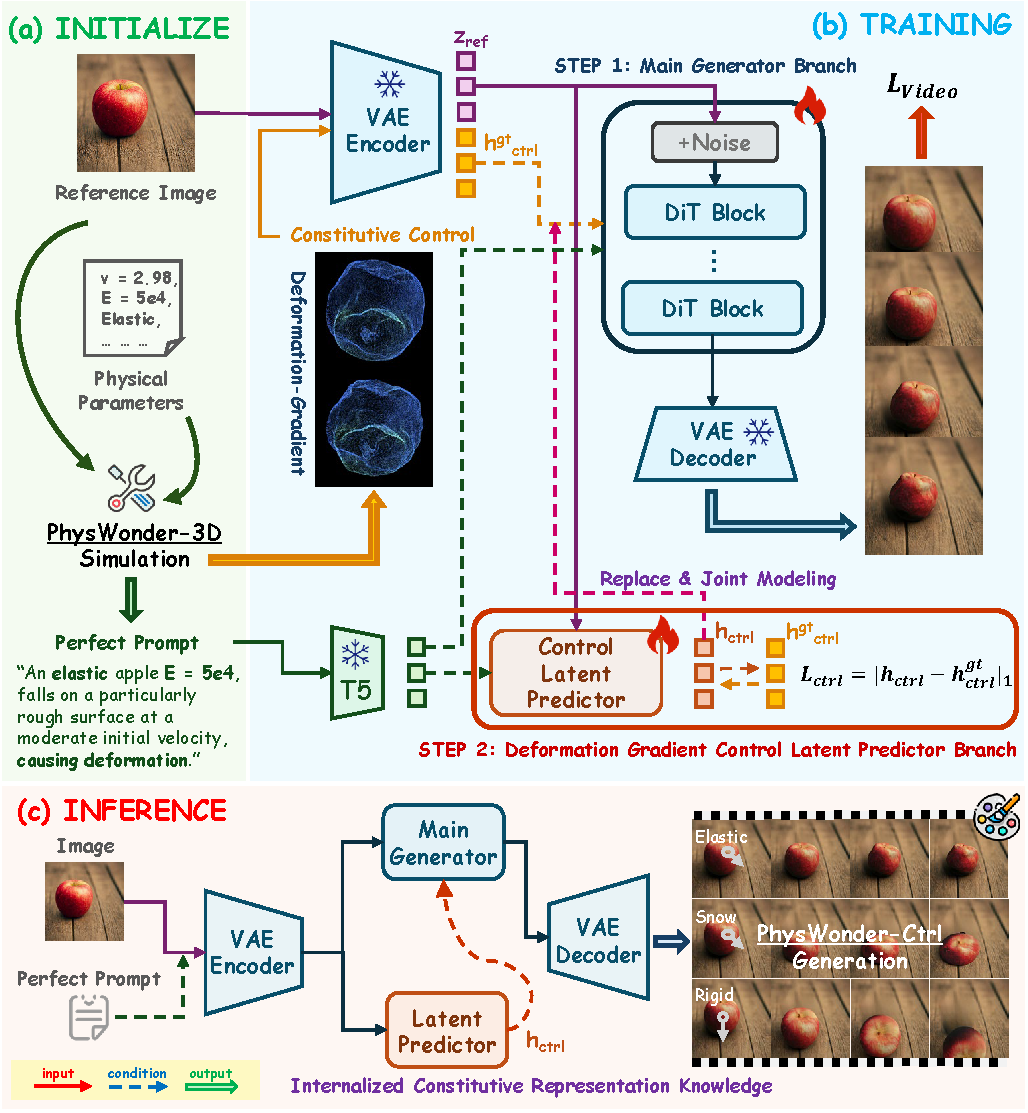
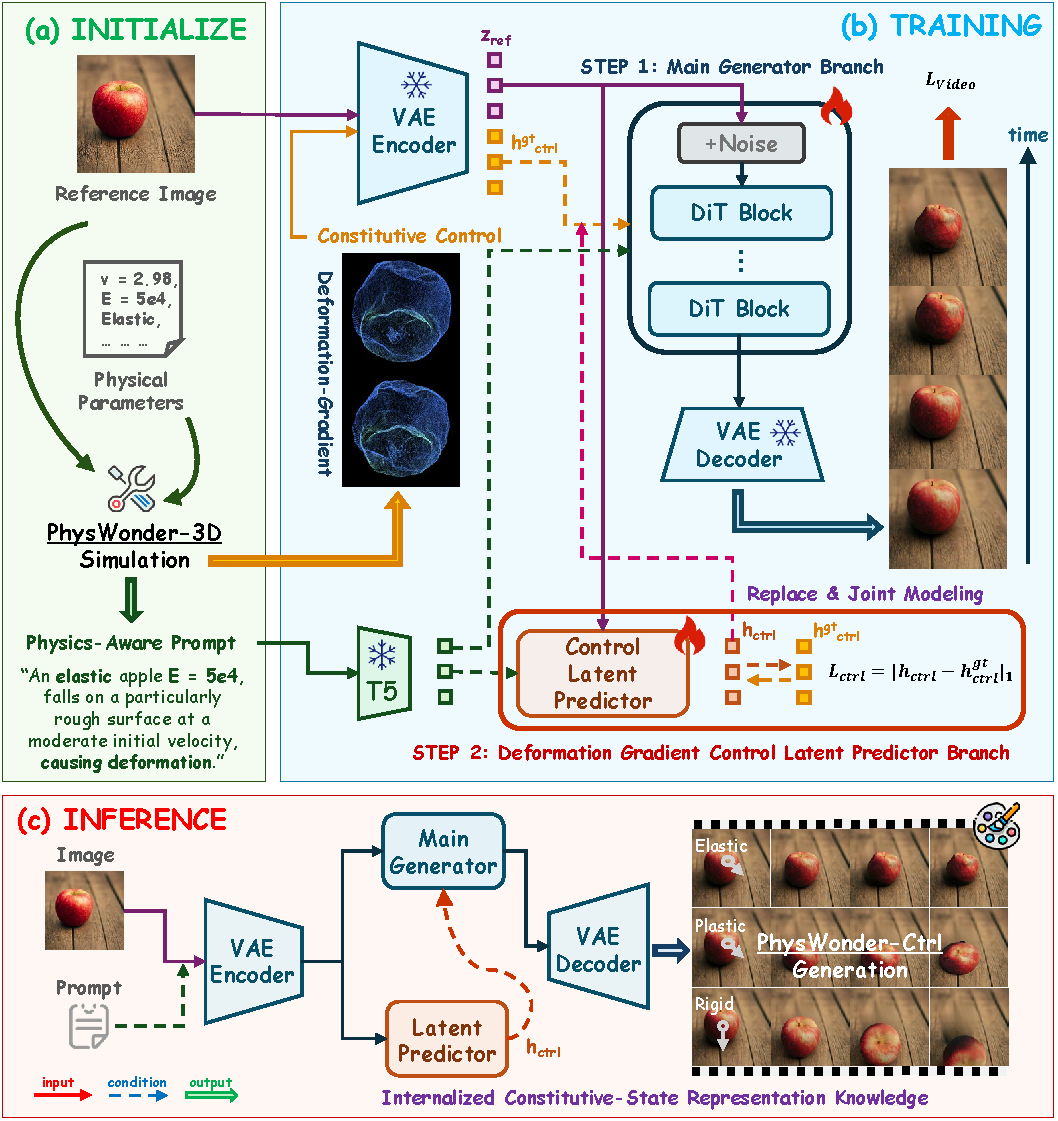
Final Version Before DDL 5.12 12pm AOE

diff --git a/index.html b/index.html
@@ -208,9 +208,9 @@
       outline:none;
       box-shadow:0 0 0 4px rgba(10,132,255,.16), 0 18px 34px rgba(15,23,42,.18);
     }
-    .teaser-hotspot[data-object="mug"]{left:39%;top:38%;--label-x:-254px;--label-y:-50%;--hotspot-accent:#0a84ff;--ring:rgba(10,132,255,.34)}
-    .teaser-hotspot[data-object="bear"]{left:63%;top:71%;--label-x:34px;--label-y:-50%;--hotspot-accent:#ff3b30;--ring:rgba(255,59,48,.30)}
-    .teaser-hotspot[data-object="duck"]{left:35%;top:72%;--label-x:-170px;--label-y:-50%;--hotspot-accent:#20a464;--ring:rgba(32,164,100,.30)}
+    .teaser-hotspot[data-object="mug"]{left:40%;top:58%;--label-x:-254px;--label-y:-50%;--hotspot-accent:#0a84ff;--ring:rgba(10,132,255,.34)}
+    .teaser-hotspot[data-object="bear"]{left:58%;top:44%;--label-x:34px;--label-y:-50%;--hotspot-accent:#ff3b30;--ring:rgba(255,59,48,.30)}
+    .teaser-hotspot[data-object="duck"]{left:63%;top:72%;--label-x:34px;--label-y:-50%;--hotspot-accent:#20a464;--ring:rgba(32,164,100,.30)}
     .teaser-hotspot[data-object="snowman"]{left:65%;top:36%;--label-x:34px;--label-y:-50%}
     .teaser-hotspot-label{
       position:absolute;
@@ -1510,6 +1510,21 @@
       overflow:hidden;
       box-shadow:0 18px 34px rgba(15,23,42,.08);
     }
+    .perception-card--multiview .perception-image-frame{
+      aspect-ratio:16 / 9;
+      display:flex;
+      align-items:center;
+      justify-content:center;
+      overflow:hidden;
+      background:#fff;
+    }
+    .perception-card--multiview .perception-image-frame img{
+      width:auto;
+      height:100%;
+      max-width:none;
+      transform:rotate(90deg);
+      transform-origin:center;
+    }
     .perception-card .card-body{
       padding:16px 18px 18px;
     }
@@ -1657,9 +1672,9 @@
       .teaser-hotspot-label span{
         font-size:10px;
       }
-      .teaser-hotspot[data-object="mug"]{left:38%;top:38%;--label-x:-218px;--label-y:-50%}
-      .teaser-hotspot[data-object="bear"]{left:63%;top:71%;--label-x:25px}
-      .teaser-hotspot[data-object="duck"]{left:35%;top:72%;--label-x:-132px}
+      .teaser-hotspot[data-object="mug"]{left:40%;top:58%;--label-x:25px;--label-y:-50%}
+      .teaser-hotspot[data-object="bear"]{left:58%;top:44%;--label-x:25px}
+      .teaser-hotspot[data-object="duck"]{left:63%;top:72%;--label-x:25px}
       .teaser-hotspot[data-object="snowman"]{left:64%;top:36%;--label-x:25px}
     }
     @media (max-width: 520px){
@@ -1718,13 +1733,15 @@
             <div class="eyebrow">Abstract</div>
             <!-- <h3>Abstract</h3> -->
             <p><small>
-              The physical world is governed by material-dependent constitutive behaviors, yet current video generation models still struggle to produce physically plausible and controllable dynamics across diverse materials.
-              Existing approaches either rely on external simulators to provide coarse physical motion or use simplified control signals such as trajectories and sparse forces; as a result, they often control visible motion without modeling how materials respond to interactions.
-              Our key insight is that constitutive representations can bridge this gap by describing the material response that links external interactions to deformation and motion.
-              We present <strong>PhysWonder</strong>, a unified framework for physically controllable video generation built around simulation-coupled constitutive representations.
-              Our framework consists of <strong>PhysWonder-3D</strong>, which enables unified constitutive simulation and scalable physically grounded data synthesis through a decomposition-based hybrid Material Point Method, and <strong>PhysWonder-Ctrl</strong>, which uses a dual-branch video generation architecture to internalize deformation-gradient-based constitutive control.
-              By treating deformation gradients as simulation-coupled intermediate supervision, joint training improves deformation-gradient-guided generation and learns constitutive-aware latent control without requiring explicit control videos during inference.
-              Experiments show that PhysWonder achieves state-of-the-art synthesis efficiency and robustness, and improves physical controllability, video fidelity, and motion consistency under both explicit deformation-gradient control and control-free inference.
+              With the rapid progress of video generation models, researchers have begun to explore whether they can serve as simulators of the physical world.
+              Existing methods usually rely on external simulators to generate explicit motion proxies, such as point clouds, particles, or trajectories, which are then projected into the video domain and refined by a video generator.
+              Another line of work translates motion information into simplified or pixel-space control conditions to guide the video generator.
+              Despite different pipelines, both paradigms ultimately rely on projected motion cues, which provide limited support for modeling material responses under changing interactions.
+              Our key insight is that constitutive-state representations can bridge this gap by describing the material response that links external interactions to deformation and motion.
+              We present <strong>PhysWonder</strong>, a unified framework for physically controllable video generation built around simulation-coupled constitutive-state representations.
+              Our framework consists of <strong>PhysWonder-3D</strong>, which enables unified constitutive simulation and scalable physically grounded data synthesis through a decomposition-based hybrid Material Point Method, and <strong>PhysWonder-Ctrl</strong>, which uses a dual-branch video generation architecture to internalize deformation-gradient-based constitutive-state control.
+              By treating deformation gradients as constitutive-aware supervision, joint training strengthens deformation-gradient control and learns constitutive-aware latent control without requiring explicit control videos during inference.
+              Experiments show that PhysWonder achieves state-of-the-art synthesis efficiency and robustness among simulator-coupled baselines, and improves controllability, fidelity, and motion consistency under both explicit deformation-gradient control and control-free inference.
             </small></p>
           </div>
         </article>
@@ -1735,7 +1752,10 @@
           </div>
           <figcaption class="figcap">
             <div class="framework-copy">
-              <strong>PhysWonder: Scalable World Building with Internalized Constitutive Control.</strong> (a) State-of-the-art generators often miss material-dependent dynamics, producing collapse, hallucination, rigidification, incoherence, or no material response. (b) PhysWonder-3D builds scalable engine-in-the-loop constitutive simulations and exposes deformation gradients as supervision for particle motion and material response. (c) PhysWonder-Ctrl internalizes this representation through joint modeling, strengthening deformation-gradient control while supporting inference without explicit control videos.
+              <strong>PhysWonder: Scalable Constitutive-State Representations for Video Generation.</strong> 
+              (a) Middle: PhysWonder addresses a fundamental limitation of existing video generators. They can synthesize plausible-looking motion, but often fail to capture how materials respond to interactions, such as remaining rigid, elastically deforming, or plastically yielding. We propose scalable simulation-coupled constitutive-state representations that link material properties, deformation, and motion, and show that they can be internalized by video generation models.
+              (b) Left: Existing baselines often fail under diverse material responses, causing collapse, hallucination, rigidification, or incoherence. PhysWonder-3D improves robustness and efficiency through unified constitutive simulation and produces aligned videos with deformation-gradient representations.
+              (c) Right: PhysWonder-Ctrl internalizes deformation-gradient controls as generator-adapted latents. Joint training preserves particle motion and material response, while the predictor enables inference without explicit control videos.          
             </div>
           </figcaption>
         </figure>
@@ -1776,7 +1796,7 @@
         <article class="card hero-video-card">
           <div class="video-shell">
             <video controls muted loop playsinline poster="assets/posters/teaser-main.jpg">
-              <source src="assets/videos/teaser_main.mp4" type="video/mp4" />
+              <source src="assets/videos/full-video.mp4" type="video/mp4" />
             </video>
             <!-- <div class="teaser-caption">
               <span class="pill">PhysWonder-3D · Unified multi-material simulation</span>
@@ -1828,7 +1848,9 @@
               <img class="figure-image" src="assets/figures/PhysWonder-3D_Pipeline.png" alt="PhysWonder-3D framework figure">
             </div>
             <figcaption class="figcap">
-              <strong>PhysWonder-3D: Scalable Physically Aligned Data Synthesis.</strong> Our pipeline combines constitutive sampling guided by Vision-Language Models (VLMs) and high-fidelity physical simulation to generate physically aligned videos and deformation-gradient-based representations.
+              <strong>PhysWonder-3D: Scalable Constitutive-State Representation Synthesis.</strong> 
+              (a) Simulation-ready world building: Assets or images are converted into executable physical scenes via perception, geometry recovery, and unified constitutive simulation.
+              (b) Scalable data synthesis: VLM-guided annotation and physics-aligned rendering produce aligned videos and constitutive-state representations of particle motion, deformation gradients, and material response.
             </figcaption>
           </figure>
 
@@ -1880,6 +1902,24 @@
               </div>
 
               <div class="comparison-row">
+                <div class="comparison-cell comparison-label">Mug<br><span class="asset-meta">Rigid</span></div>
+                <div class="comparison-cell"><div class="gif-tile gif-missing"><span>Simulation failed</span></div></div>
+                <div class="comparison-cell"><div class="gif-tile"><img src="assets/gifs/comparison/WonderPlay/mug.gif" alt="Mug - WonderPlay"></div></div>
+                <div class="comparison-cell"><div class="gif-tile gif-missing"><span>Simulation failed</span></div></div>
+                <div class="comparison-cell"><div class="gif-tile"><img src="assets/gifs/comparison/RealWonder/mug.gif" alt="Mug - RealWonder"></div></div>
+                <div class="comparison-cell"><div class="gif-tile"><img src="assets/gifs/comparison/PhysWonder-3D/mug.gif" alt="Mug - PhysWonder-3D"><span class="constitutive-tag">Rigid</span></div></div>
+              </div>
+
+              <div class="comparison-row">
+                <div class="comparison-cell comparison-label">Table<br><span class="asset-meta">Rigid</span></div>
+                <div class="comparison-cell"><div class="gif-tile"><img src="assets/gifs/comparison/PhysGen3D/table.gif" alt="Table - PhysGen3D"></div></div>
+                <div class="comparison-cell"><div class="gif-tile"><img src="assets/gifs/comparison/WonderPlay/table.gif" alt="Table - WonderPlay"></div></div>
+                <div class="comparison-cell"><div class="gif-tile gif-missing"><span>Simulation failed</span></div></div>
+                <div class="comparison-cell"><div class="gif-tile"><img src="assets/gifs/comparison/RealWonder/table.gif" alt="Table - RealWonder"></div></div>
+                <div class="comparison-cell"><div class="gif-tile"><img src="assets/gifs/comparison/PhysWonder-3D/table.gif" alt="Table - PhysWonder-3D"><span class="constitutive-tag">Rigid</span></div></div>
+              </div>
+
+              <div class="comparison-row">
                 <div class="comparison-cell comparison-label">Bread<br><span class="asset-meta">Sand (E = 1e4)</span></div>
                 <div class="comparison-cell"><div class="gif-tile gif-missing"><span>Simulation failed</span></div></div>
                 <div class="comparison-cell"><div class="gif-tile"><img src="assets/gifs/comparison/WonderPlay/bread.gif" alt="Bread - WonderPlay"></div></div>
@@ -1922,6 +1962,15 @@
                 <div class="comparison-cell"><div class="gif-tile"><img src="assets/gifs/comparison/PerpetualWonder/shoe.gif" alt="Shoe - PerpetualWonder"></div></div>
                 <div class="comparison-cell"><div class="gif-tile"><img src="assets/gifs/comparison/RealWonder/shoe.gif" alt="Shoe - RealWonder"></div></div>
                 <div class="comparison-cell"><div class="gif-tile"><img src="assets/gifs/comparison/PhysWonder-3D/shoe.gif" alt="Shoe - PhysWonder-3D"><span class="constitutive-tag">Elastic</span></div></div>
+              </div>
+
+              <div class="comparison-row">
+                <div class="comparison-cell comparison-label">Toy<br><span class="asset-meta">Elastic (E = 6.5e4)</span></div>
+                <div class="comparison-cell"><div class="gif-tile"><img src="assets/gifs/comparison/PhysGen3D/toy.gif" alt="Toy - PhysGen3D"></div></div>
+                <div class="comparison-cell"><div class="gif-tile"><img src="assets/gifs/comparison/WonderPlay/toy.gif" alt="Toy - WonderPlay"></div></div>
+                <div class="comparison-cell"><div class="gif-tile gif-missing"><span>Simulation failed</span></div></div>
+                <div class="comparison-cell"><div class="gif-tile"><img src="assets/gifs/comparison/RealWonder/toy.gif" alt="Toy - RealWonder"></div></div>
+                <div class="comparison-cell"><div class="gif-tile"><img src="assets/gifs/comparison/PhysWonder-3D/toy.gif" alt="Toy - PhysWonder-3D"><span class="constitutive-tag">Elastic</span></div></div>
               </div>
             </div>
           </div>
@@ -2010,7 +2059,11 @@
               </div>
             </div>
             <figcaption class="figcap">
-              <strong>The Pipeline of PhysWonder-Ctrl.</strong> We propose a dual-branch joint modeling framework that leverages deformation gradients as intermediate physical representations for physically controllable video generation. <strong>Click the 🔎 Control Latent Predictor Framework button on the figure to view details.</strong>
+              <strong>PhysWonder-Ctrl: Internalizing Constitutive Latents.</strong> 
+              (a) Initialization: PhysWonder-3D produces prompts, aligned videos, and deformation-gradient controls from reference images and physical parameters.
+              (b) Training: Joint modeling turns deformation-gradient representations into generator-adapted control latents.
+              (c) Inference: The predictor provides internalized latents for material-aware generation and control-free inference. 
+              <strong>Click the 🔎 Control Latent Predictor Framework button on the figure to view details.</strong>
             </figcaption>
           </figure>
 
@@ -2671,10 +2724,25 @@
         
         
         </div>
-
-
-
   </main>
+
+  <section id="conclusion" class="section">
+    <div class="container">
+      <article class="card hero-abstract">
+        <div class="card-body">
+          <div class="eyebrow">Conclusion, Limitations and Future Work</div>
+          <p><small>
+            We presented <strong>PhysWonder</strong>, a framework that connects constitutive simulation with physically controllable video generation.
+            PhysWonder-3D provides efficient engine-in-the-loop synthesis across diverse materials, while PhysWonder-Ctrl internalizes deformation-gradient-based control for material-aware dynamic generation.
+            Within our planned computational budget, experiments validate the proposed constitutive-state representation and joint modeling framework, demonstrating material-response control beyond motion-level guidance.
+            PhysWonder remains partly limited by pretrained upstream modules, whose errors may affect world building and output quality.
+            Future work includes scaling to larger generative models and developing engine-in-the-loop evaluation into a more objective protocol for physical consistency assessment.
+            More broadly, our physically aligned synthesis pipeline may support deformable manipulation, flexible grasping, and material-aware planning.
+          </small></p>
+        </div>
+      </article>
+    </div>
+  </section>
 
   <div class="predictor-modal" id="predictor-modal" aria-hidden="true">
     <div class="predictor-panel" role="dialog" aria-modal="true" aria-labelledby="predictor-title">
@@ -2682,7 +2750,7 @@
         <div class="predictor-title">
           <div class="eyebrow">Predictor Detail</div>
           <h3 id="predictor-title">PhysWonder-Ctrl Predictor</h3>
-          <p>Detailed Architecture of the Control Latent Predictor in PhysWonder-Ctrl. The predictor fuses pooled text and image conditions, expands the reference latent into a spatiotemporal feature tensor, and predicts the control latent through stacked FiLM-conditioned 3D residual blocks.</p>
+          <p>Detailed Architecture of the Control Latent Predictor in PhysWonder-Ctrl. The predictor takes text embeddings, image features, and the reference latent as inputs. It first pools and projects text/image features to form a fused condition vector, expands the reference latent into a spatiotemporal feature tensor, and then uses the condition vector to FiLM-modulate stacked 3D residual blocks for predicting the control latent.</p>
           <div class="predictor-chips">
             <span class="predictor-chip">Latent control branch</span>
             <span class="predictor-chip">Detailed network view</span>
@@ -2735,7 +2803,7 @@
               <p>Inpainted scene after removing the foreground mug region.</p>
             </div>
           </article>
-          <article class="perception-card">
+          <article class="perception-card perception-card--multiview">
             <div class="perception-image-frame">
               <img src="assets/perception/mug/display/multiview_mug1_1280x720.jpg" alt="Multi-view generation result for the mug">
             </div>
@@ -2858,7 +2926,7 @@
 
           <article class="physwonder3d-object-row" data-object="bear">
             <div class="physwonder3d-prompt">
-              <p>"A <span class="material">Sand</span> bear with E=8e4, causing deformation."</p>
+              <p>"A <span class="material">Plastic</span> bear with E=8e4, causing deformation."</p>
             </div>
             <figure class="physwonder3d-media">
               <video controls autoplay muted loop playsinline preload="metadata" poster="assets/physwonder3d/bear/deformation.gif">